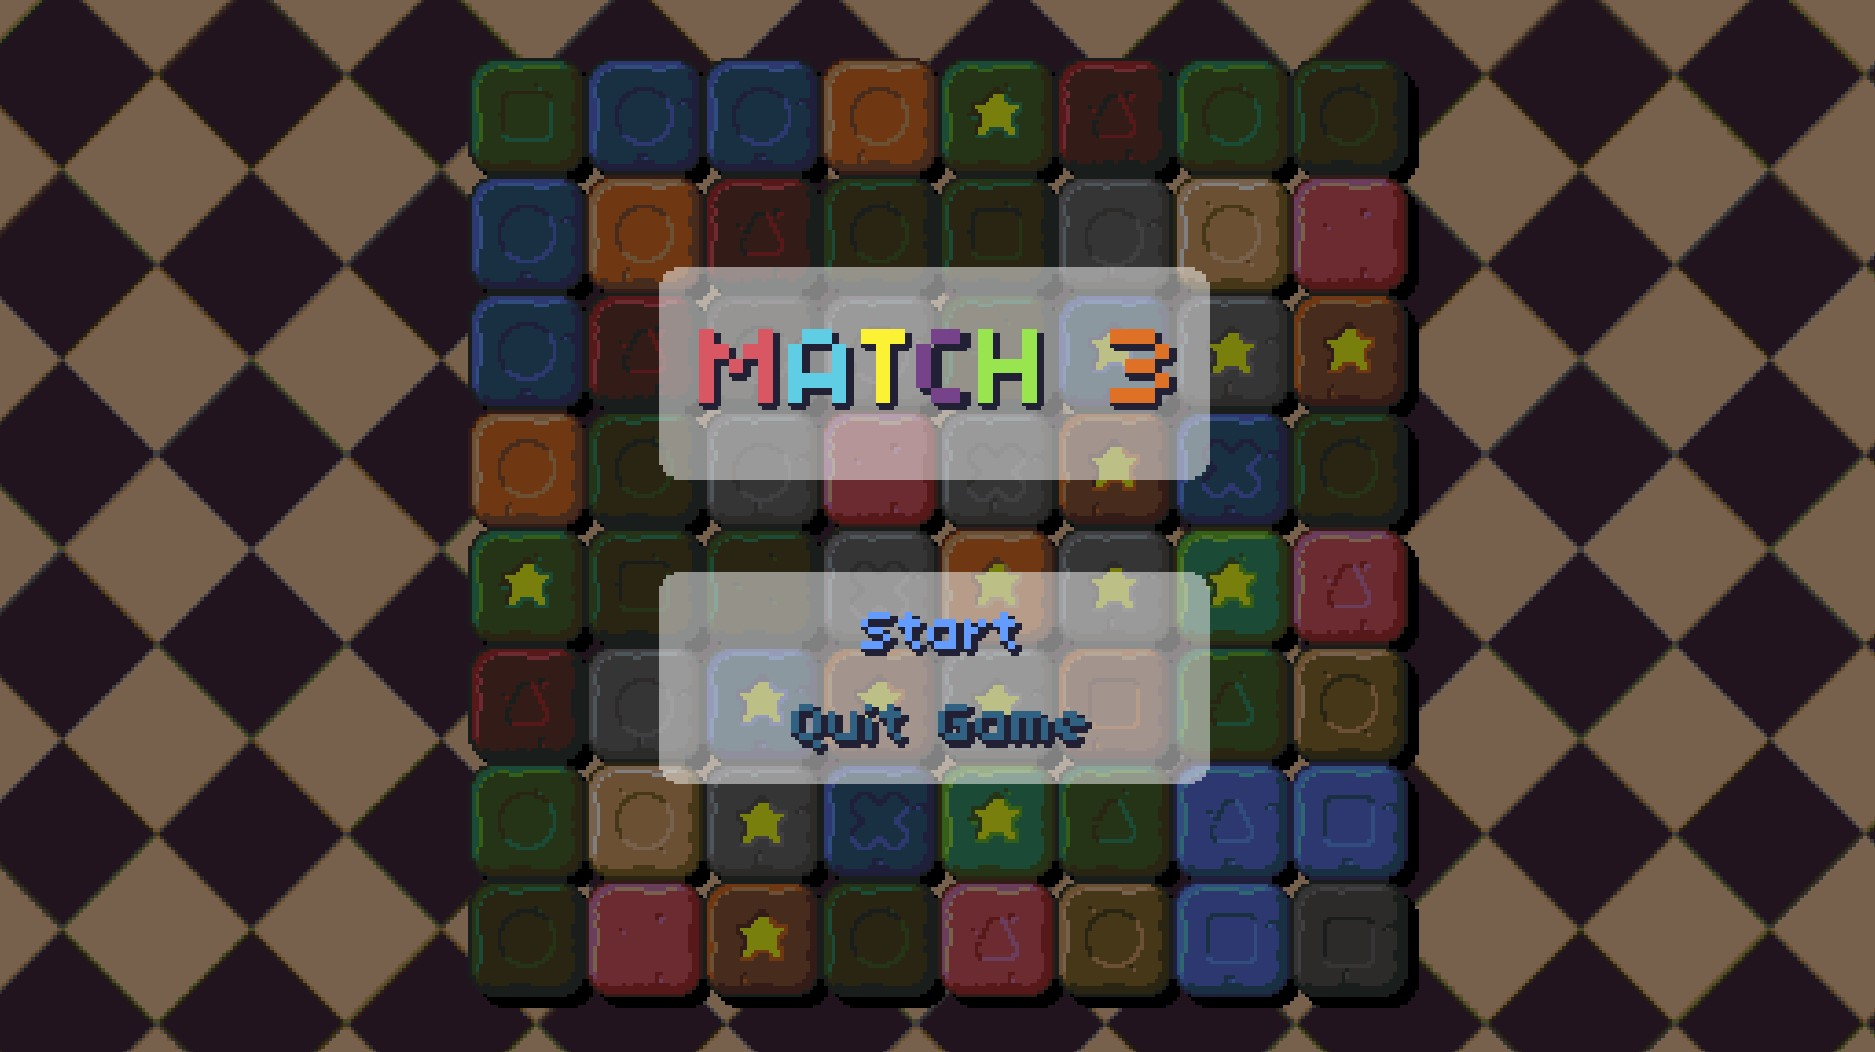
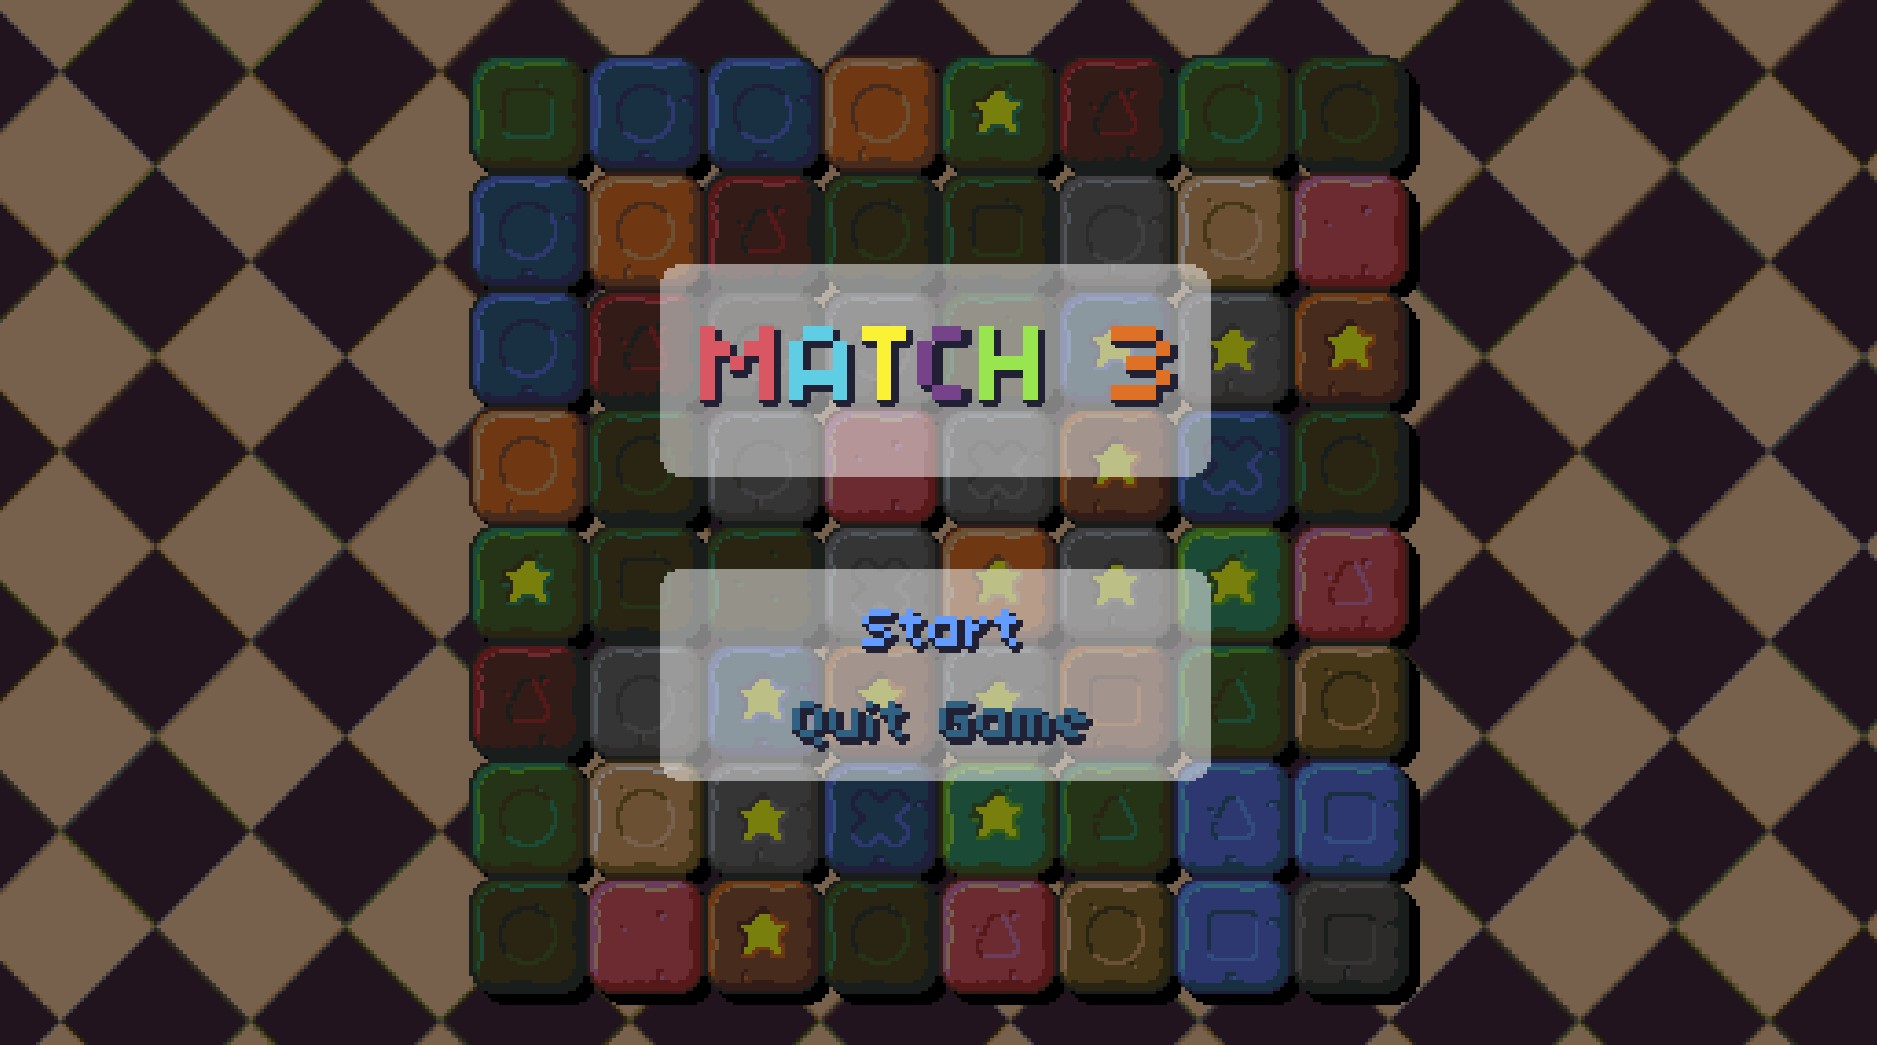
pic

diff --git a/gd50.html b/gd50.html
@@ -89,7 +89,7 @@
                         <section>
                             <h3>Match 3</h3>
                             <p>Lua and Love2D</p>
-                            <a href="#" class="image fit"><img src="images/match.jpg" alt="" /></a>
+                            <a href="#" class="image fit"><img src="images/match.png" alt="" /></a>
                             <footer>
                                 <ul class="actions">
                                     <li><a href="match.html" class="button">Match 3</a></li>
